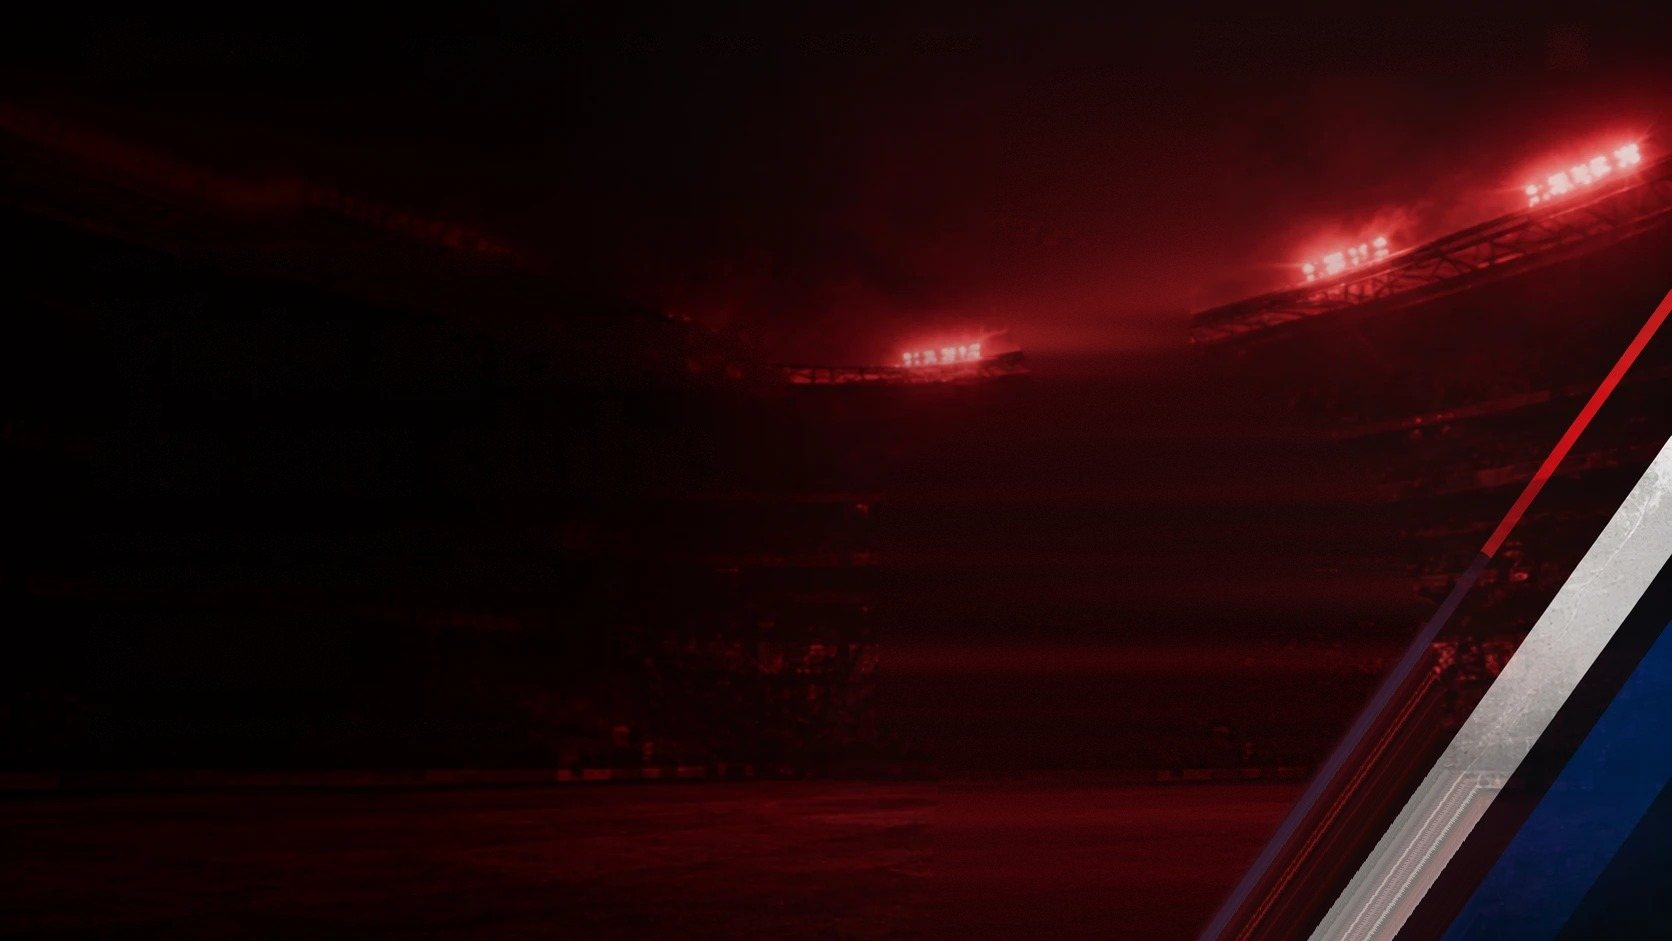
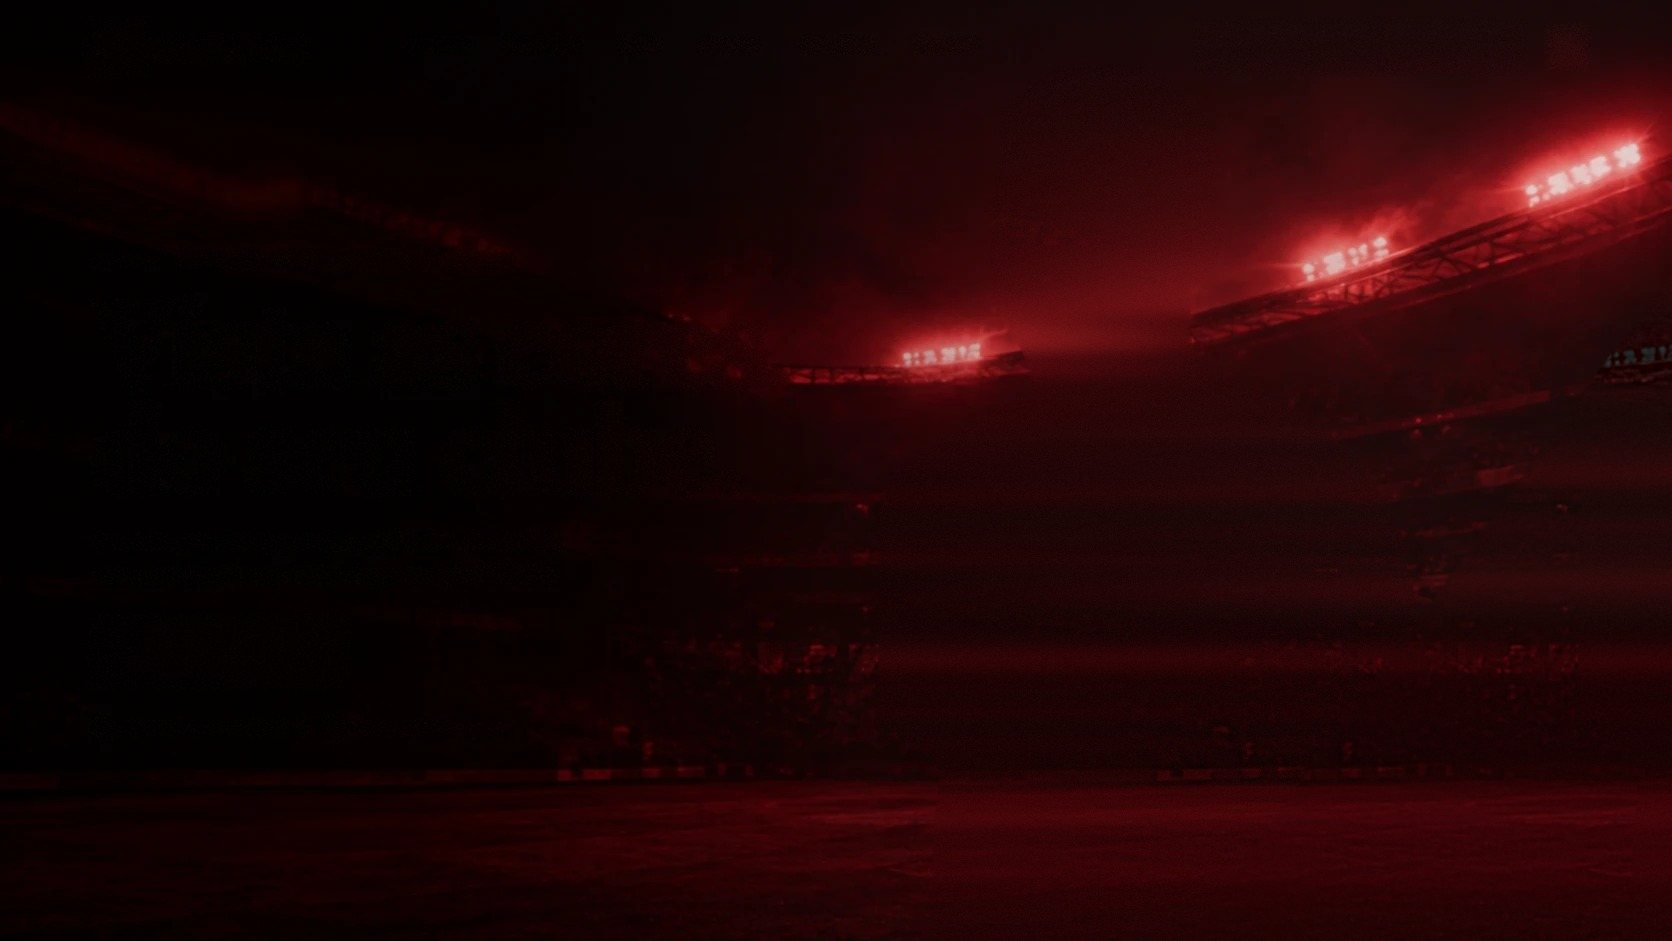
HERO desktop: volta as 3 faixas (vermelha, branca e azul) no lugar de antes, sobre o estádio
Claude-Session: https://claude.ai/code/session_01M18ABDk4Fjc8AVTPzqMgVi

Changed region(s): [[0.7153, 0.4006, 1.0, 1.0], [0.9641, 0.3082, 1.0, 0.4006], [0.8708, 0.5547, 0.9019, 0.5855]]

diff --git a/src/components/hero/Hero.tsx b/src/components/hero/Hero.tsx
@@ -5,6 +5,7 @@ import { useEffect, useRef, useState } from "react";
 import hero from "@/assets/hero-banner.jpg";
 import bgMobile from "@/assets/hero-bg-mobile.jpg";
 import bgStadium from "@/assets/hero-stadium.jpg";
+import stripes from "@/assets/hero-stripes.webp";
 import person from "@/assets/hero-person.webp";
 import { Ticker } from "@/components/Ticker";
 
@@ -46,6 +47,7 @@ export function Hero() {
   const textRef = useRef<HTMLDivElement>(null);
   const slotRef = useRef<HTMLDivElement>(null);
   const bgRef = useRef<HTMLImageElement>(null);
+  const stripesRef = useRef<HTMLImageElement>(null);
   const personRef = useRef<HTMLImageElement>(null);
   const [webglFailed, setWebglFailed] = useState(false);
 
@@ -77,6 +79,7 @@ export function Hero() {
         section,
         [
           { el: bgRef.current!, factor: 10, allowUp: true },
+          { el: stripesRef.current!, factor: 10, allowUp: true },
           { el: personRef.current!, factor: 26 },
         ],
         scene,
@@ -112,6 +115,16 @@ export function Hero() {
           className="absolute inset-0 -z-10 size-full scale-[1.04] object-cover object-left-top will-change-transform md:object-center"
         />
       </picture>
+      {/* Desktop: as 3 faixas (vermelha, branca e azul) da arte original, no mesmo lugar, por cima do estádio */}
+      <img
+        ref={stripesRef}
+        src={stripes}
+        alt=""
+        aria-hidden
+        width={1116}
+        height={2000}
+        className="absolute right-0 top-0 -z-[9] hidden h-full w-auto max-w-none scale-[1.04] will-change-transform [mask-image:linear-gradient(to_right,transparent,black_35%)] md:block"
+      />
       {/* Véu escuro à esquerda para destacar o texto */}
       <div
         aria-hidden
